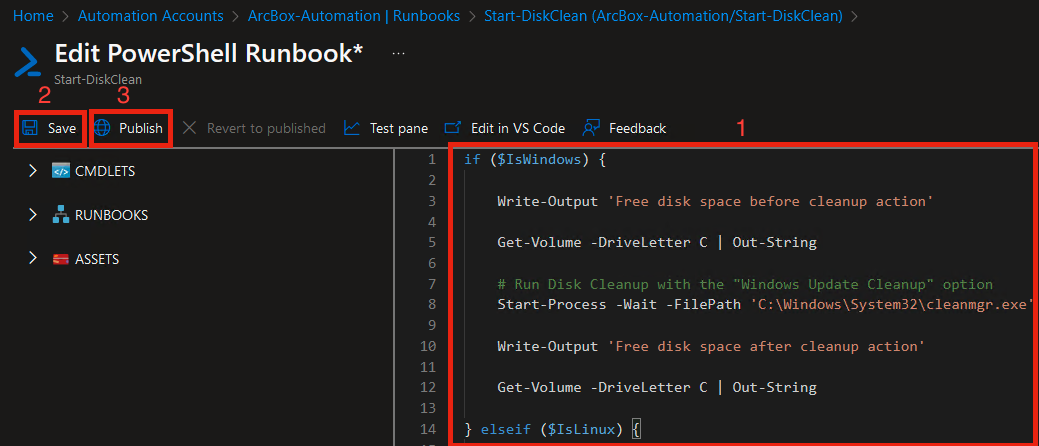
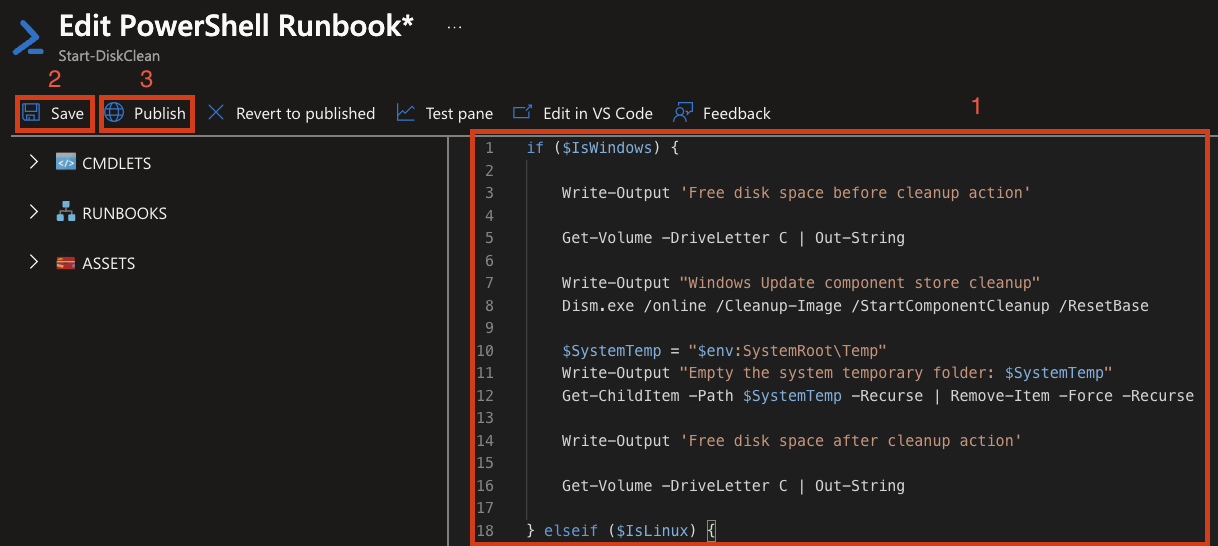
Update runbook content

Changed region(s): [[0.0, 0.0, 1.0, 1.0], [0.0308, 0.5538, 0.1232, 0.6121], [0.0, 0.4664, 0.154, 0.4955]]

diff --git a/docs/azure_arc_jumpstart/azure_arc_servers/levelup/_index.md b/docs/azure_arc_jumpstart/azure_arc_servers/levelup/_index.md
@@ -1095,8 +1095,12 @@ if ($IsWindows) {
 
     Get-Volume -DriveLetter C | Out-String
 
-    # Run Disk Cleanup
-    Start-Process -Wait -NoNewWindow -FilePath 'C:\Windows\System32\cleanmgr.exe' -ArgumentList '/d C: /VERYLOWDISK'
+    Write-Output "Windows Update component store cleanup"
+    Dism.exe /online /Cleanup-Image /StartComponentCleanup /ResetBase
+
+    $SystemTemp = "$env:SystemRoot\Temp"
+    Write-Output "Empty the system temporary folder: $SystemTemp"
+    Get-ChildItem -Path $SystemTemp -Recurse | Remove-Item -Force -Recurse
 
     Write-Output 'Free disk space after cleanup action'
 
